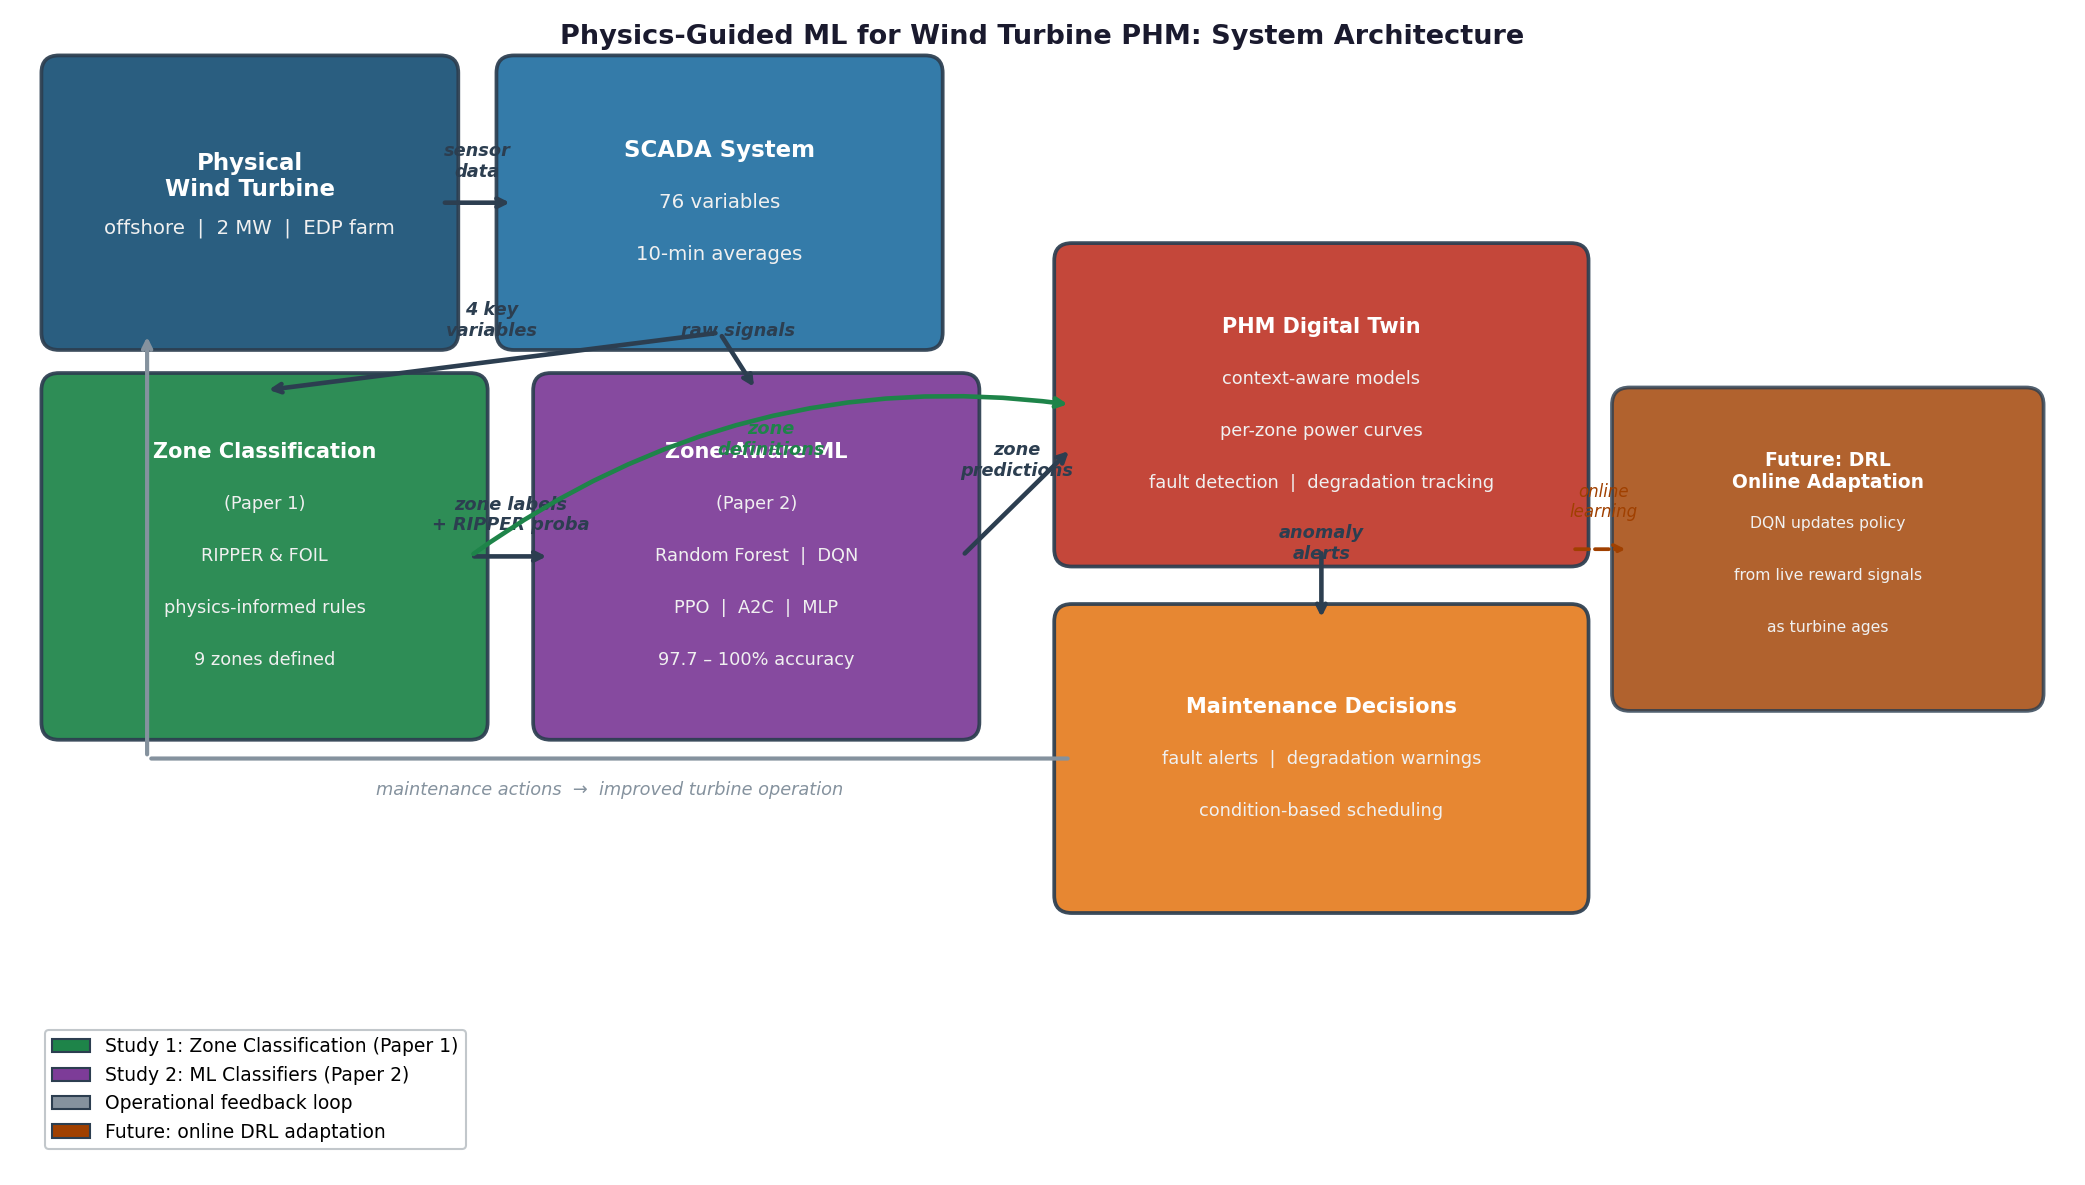
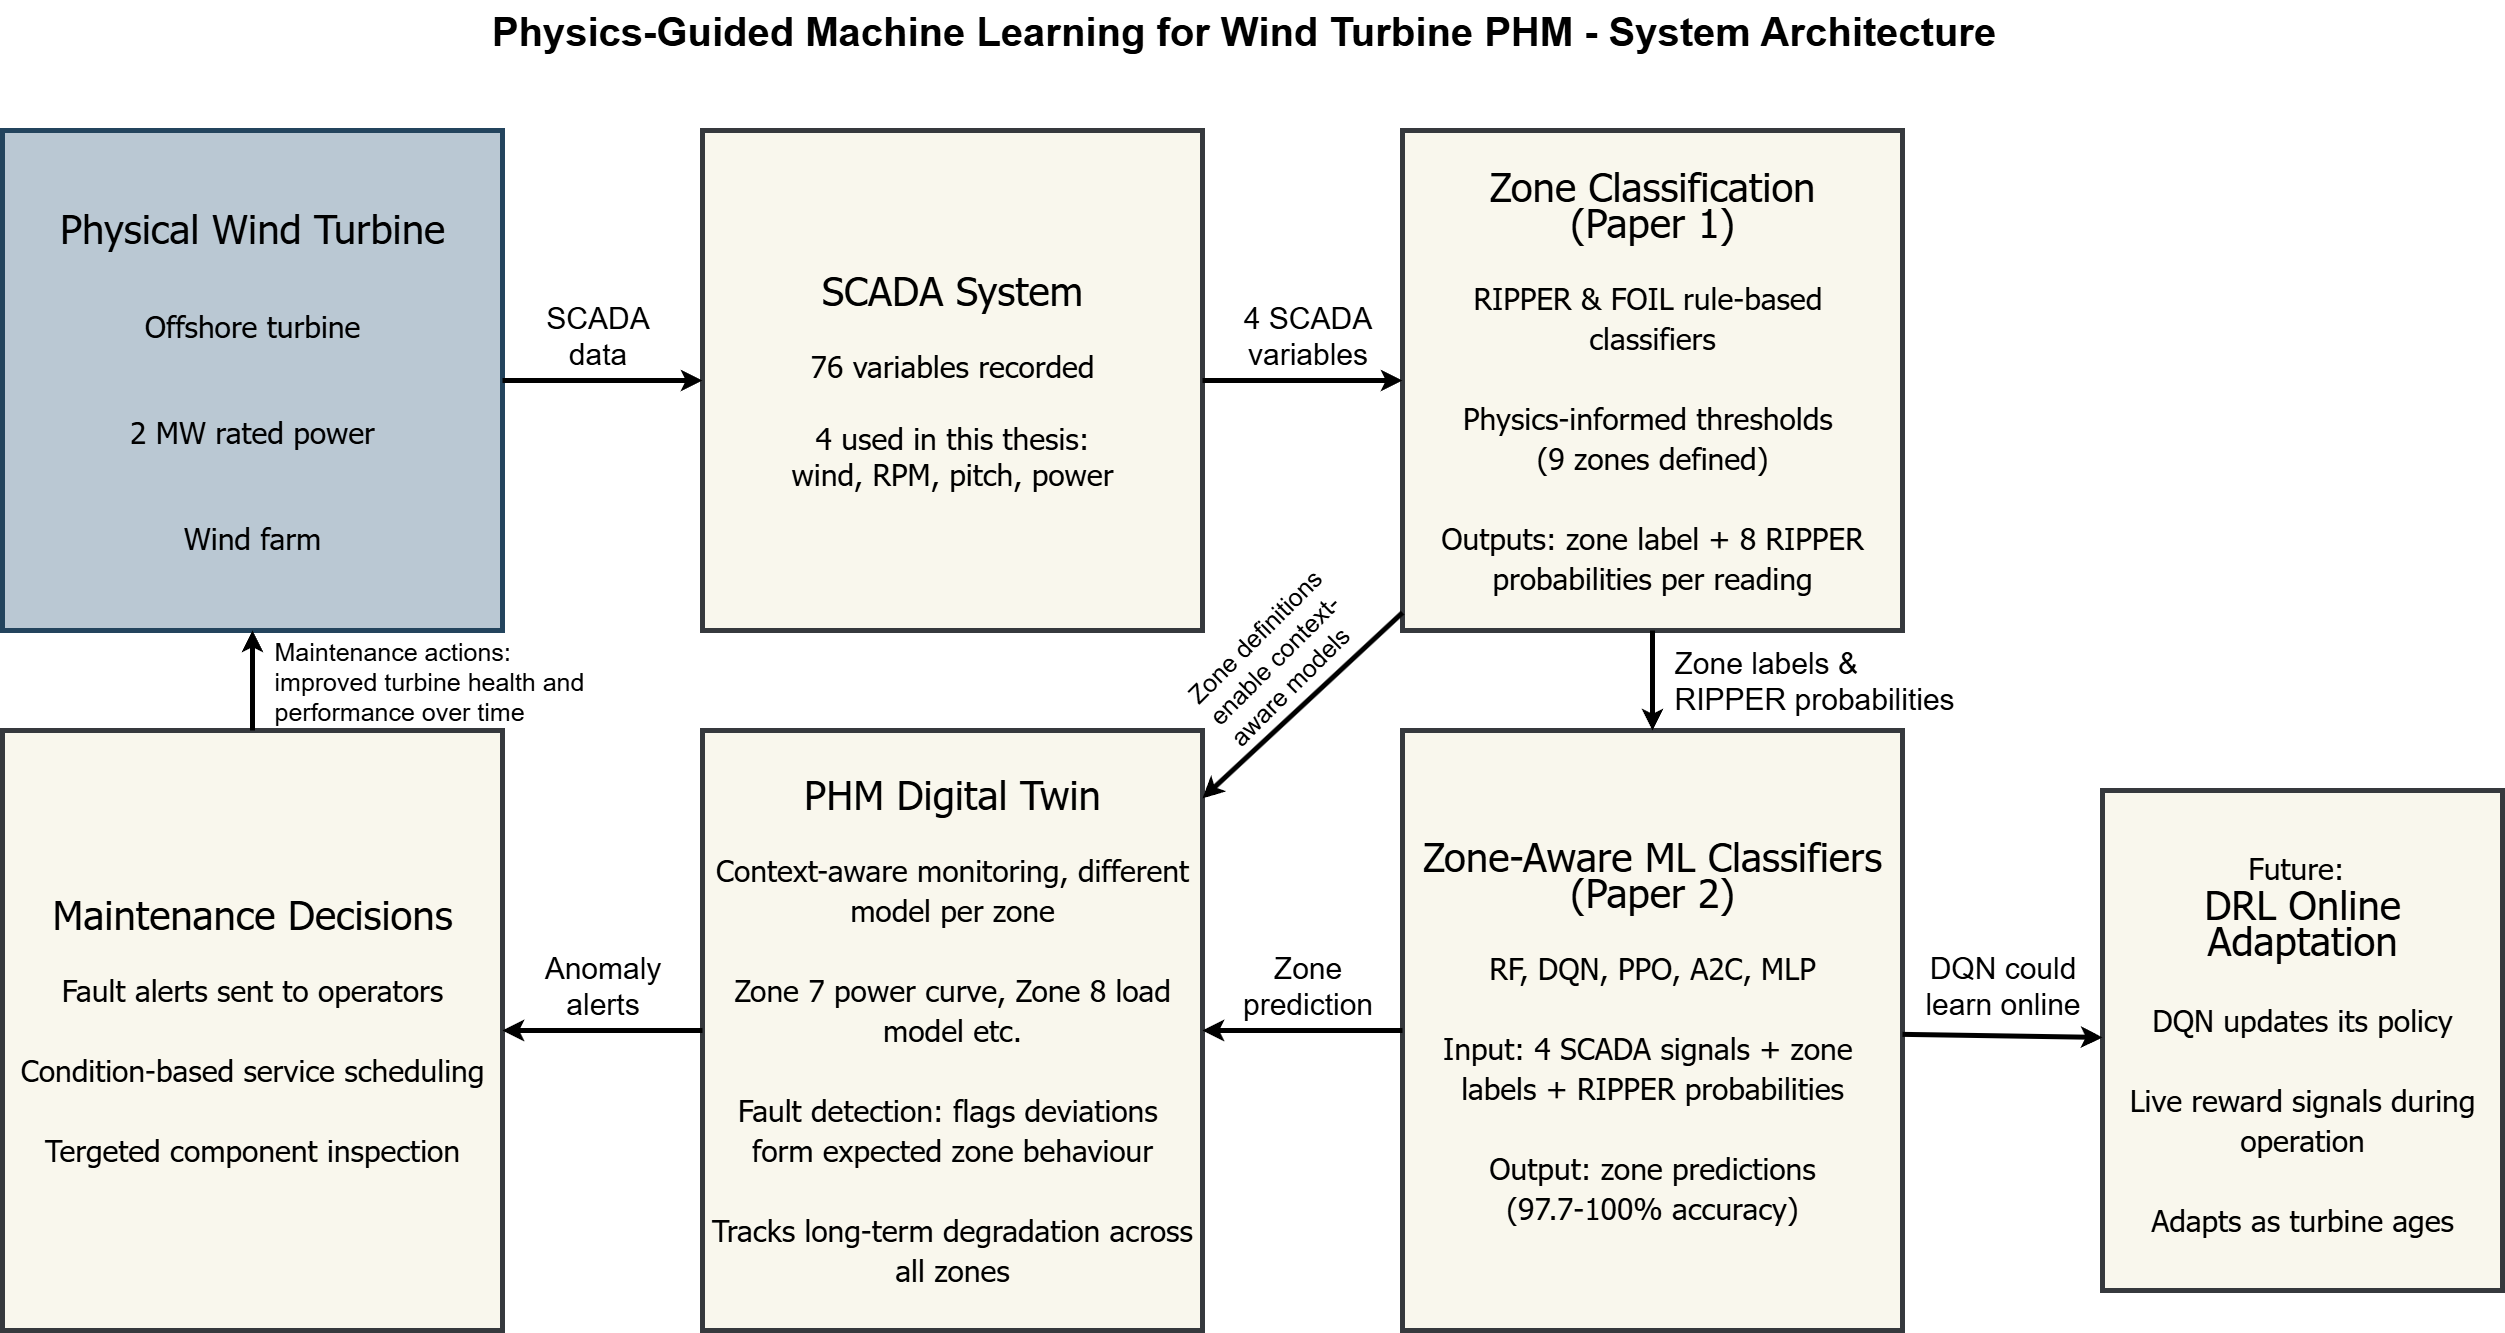
final figures

diff --git a/chapter5.tex b/chapter5.tex
@@ -6,20 +6,27 @@ This chapter brings together the findings from Chapters~3 and~4 and discusses wh
 mean when considered jointly. The two studies address different aspects of the same
 problem, operational zone classification for wind turbine SCADA data, and the results
 from one study directly inform the interpretation of the other.
-Figure~\ref{fig:ch5:lifecycle} shows how both studies fit into the broader PHM digital
-twin lifecycle for a real wind turbine.
+Figure~\ref{fig:ch5:lifecycle} shows how both studies connect to the full PHM digital
+twin lifecycle of a real offshore wind turbine, from raw SCADA data through zone
+classification and ML-based predictions to condition-based maintenance decisions.
 
 \begin{figure}[h]
 \centering
 \includegraphics[width=\textwidth]{figs/lifecycle_diagram.png}
-\caption{System architecture showing how the two studies in this thesis connect to the
-PHM digital twin lifecycle of a real wind turbine. Study~1 (Paper~1, green) defines the
-zone framework and produces interpretable classification rules. Study~2 (Paper~2,
-purple) delivers accurate zone predictions that feed into zone-aware condition monitoring
-models. The operational feedback loop (grey) shows how maintenance decisions informed by
-the digital twin improve turbine operation over time. The future online DRL adaptation
-path (brown, dashed) represents the next step: allowing DQN to update its policy from
-live reward signals as the turbine ages.}
+\caption{System architecture showing how the two studies in this thesis fit into the
+PHM digital twin lifecycle of a real offshore wind turbine. The SCADA system records 76
+variables every ten minutes, of which four are used in this thesis. Study~1 (Paper~1)
+applies physics-informed thresholds to classify each reading into one of nine operational
+zones using RIPPER and FOIL, outputting a zone label and eight RIPPER probabilities per
+reading. Study~2 (Paper~2) takes those labels and probabilities together with the raw
+SCADA signals and produces accurate zone predictions using RF, DQN, PPO, A2C and MLP
+(97.7--100\% accuracy). Zone predictions and zone definitions together enable the PHM
+digital twin to apply a different model per zone for power curve monitoring, fault
+detection and long-term degradation tracking. Anomaly alerts from the digital twin feed
+into maintenance decisions, which close the feedback loop back to the physical turbine.
+The dashed arrow to the right indicates a future direction: DQN could continue updating
+its policy from live reward signals during actual turbine operation, adapting as the
+turbine ages over time.}
 \label{fig:ch5:lifecycle}
 \end{figure}
 

diff --git a/chapter4.tex b/chapter4.tex
@@ -189,16 +189,20 @@ Both meta-models are trained on the 2016 training set and evaluated on the 2017 
 test set of 52,234 readings. The three evaluation metrics are: total readings flagged for
 review, recall for the underlying model's errors (the fraction of errors flagged), and
 false alarms (readings flagged but correctly classified by the underlying model).
-Figure~\ref{fig:ch4:pipelines} illustrates the complete flow of both pipelines.
+Figure~\ref{fig:ch4:pipelines} illustrates the complete decision flow for both pipelines,
+including the exact feature inputs to each meta-model.
 
 \begin{figure}[h]
 \centering
 \includegraphics[width=\textwidth]{figs/pipeline_comparison.png}
-\caption{Deployment pipeline comparison. Pipeline~A (left) uses RIPPER directly and
-flags uncertain predictions with a Random Forest meta-model. Pipeline~B (right) first
-corrects RIPPER errors with DQN and physics guardrails, then applies a LightGBM
-meta-model to catch residual errors. Pipeline~B reduces flagged readings from 8.0\% to
-2.3\% while improving error recall from 90.8\% to 98.9\%.}
+\caption{Deployment pipeline comparison. \textbf{Pipeline~A} (left): RIPPER makes the
+zone prediction; a Random Forest meta-model uses raw SCADA signals, RIPPER zone
+probabilities and margin to predict whether RIPPER was wrong. \textbf{Pipeline~B}
+(right): RIPPER probabilities feed into both DQN (as observation features) and the
+LightGBM meta-model directly; DQN makes the zone prediction; LightGBM uses SCADA,
+RIPPER probabilities and DQN temporal features (previous 3 predictions, instability
+score) to detect residual DQN errors. Pipeline~B reduces flagged readings from 8.0\% to
+2.3\% while increasing error recall from 90.8\% to 98.9\%.}
 \label{fig:ch4:pipelines}
 \end{figure}
 

diff --git a/appendix.tex b/appendix.tex
@@ -418,7 +418,7 @@ Health Management Society (PHME~2026).}
 
 % To include the full paper: save PHME2026\_16.05.docx as paper1.pdf
 % in the latex\_master folder, then uncomment:
-% \includepdf[pages=-]{paper1.pdf}
+\includepdf[pages=-]{paper1.pdf}
 
 \clearpage
 \chapter{Paper 2 --- From Rule Learning to Deep Reinforcement Learning}
@@ -433,4 +433,4 @@ Human Review Reduction for Wind Turbines. [Manuscript prepared for journal submi
 
 % To include the full paper: save Paper 2 .docx as paper2.pdf
 % in the latex\_master folder, then uncomment:
-% \includepdf[pages=-]{paper2.pdf}
+\includepdf[pages=-]{paper2.pdf}